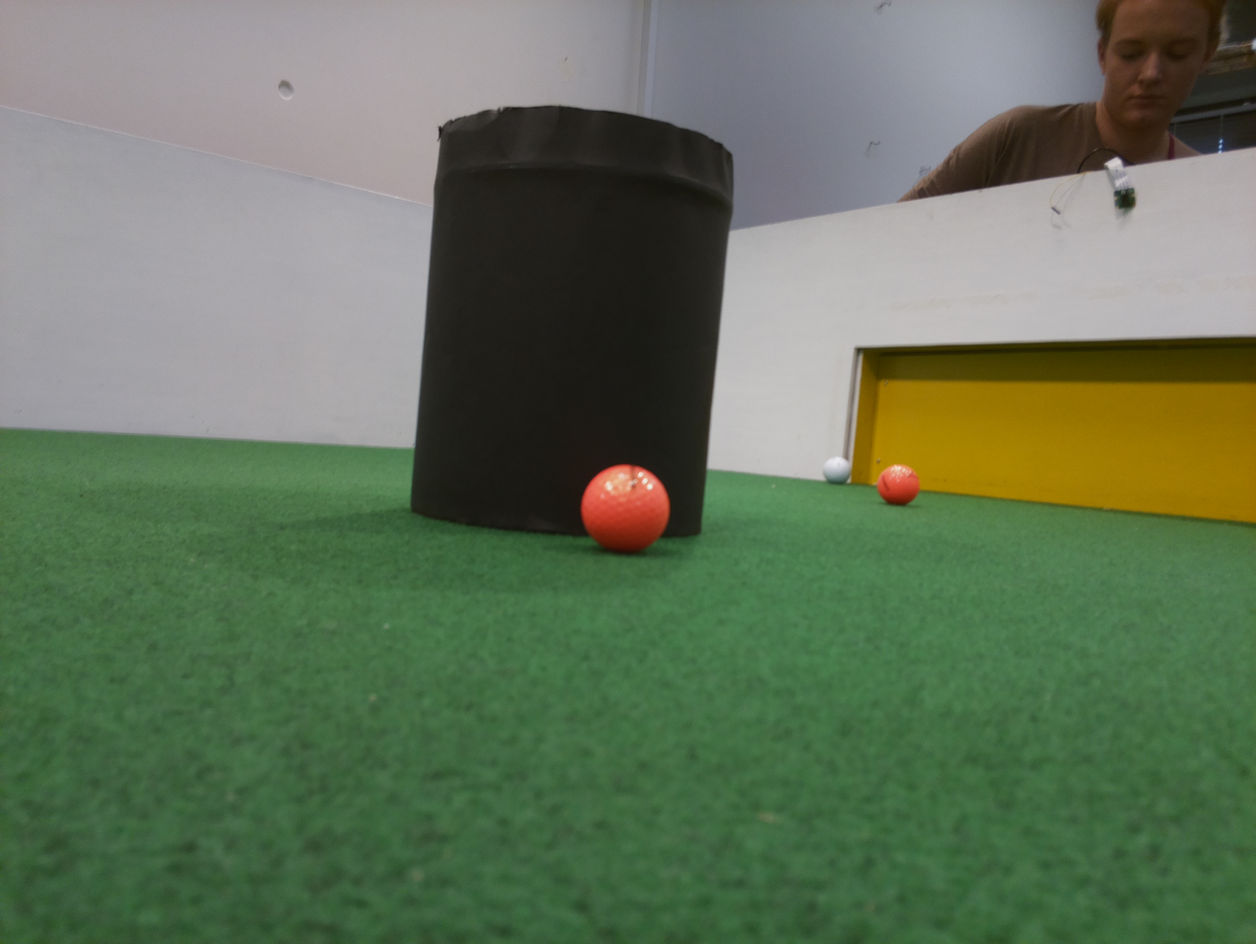
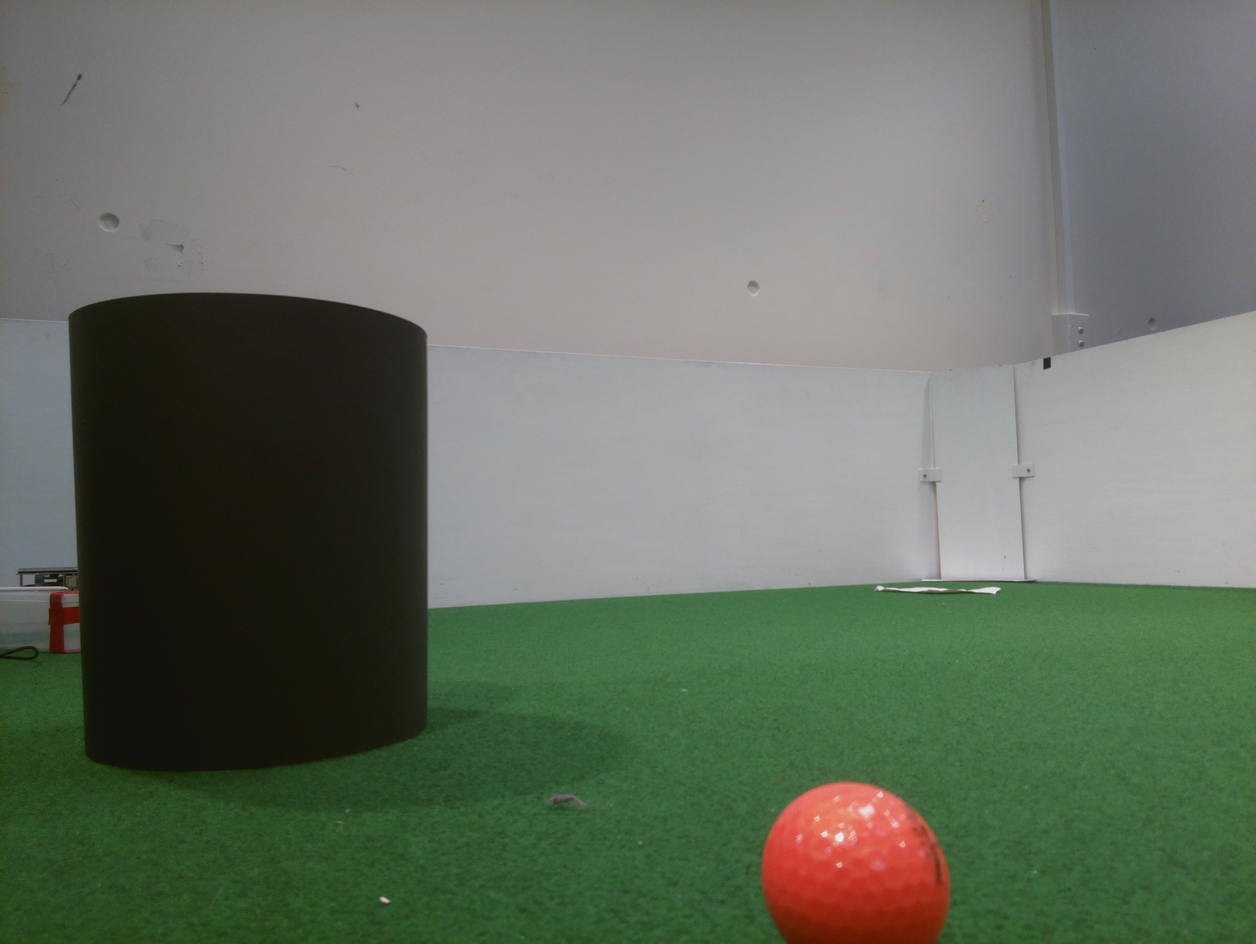
working thresholds for pi cam

diff --git a/vision.py b/vision.py
@@ -4,10 +4,10 @@ import math
 
 class ImageAnalyser:
     def __init__(self):
-        self.fov = np.array((math.radians(75), math.radians(50)))
-        # self.fov = np.array((math.radians(62.2), math.radians(48.8)))
+        # self.fov = np.array((math.radians(80), math.radians(50)))
+        self.fov = np.array((math.radians(62.2), math.radians(48.8)))
         self.tilt = math.radians(90 - 0)
-        self.camHeight = 0.215
+        self.camHeight = 0.1
         self.res = np.array((-1,-1))
         self.ballProps = {
             "dimensions": (0.0427, 0.0427)
@@ -20,20 +20,27 @@ class ImageAnalyser:
 
     def analyse(self, img):
         self.res = np.array(np.shape(img)[1::-1], dtype='float')
+        self.area = self.res[0] * self.res[1]
         denoised = self.denoiseRaw(img)
 
         hsv = cv2.cvtColor(denoised, cv2.COLOR_BGR2HSV)
+        areaGetter = lambda info: info["area"]
 
         ballMask = self.ballThreshold(hsv)
         ballContours = self.findContours(np.array(ballMask))
+        ballMask = cv2.cvtColor(ballMask, cv2.COLOR_GRAY2BGR)
         if ballContours is not None:
-            areaGetter = lambda info: info["area"]
             ballInfos = sorted([self.contourInfo(contour) for contour in ballContours], key=areaGetter, reverse=True)
             ballInfo = ballInfos[0]
-            # for ballInfo in ballInfos:
-            self.ballPos = self.realCoordinates(ballInfo, self.ballProps)
-            self.drawContourInfo(denoised, ballInfo, self.ballPos)
-                # break
+            if ballInfo["area"] >= self.area * 0.001:
+                # for ballInfo in ballInfos:
+                self.ballPos = self.realCoordinates(ballInfo, self.ballProps)
+                self.drawContourInfo(denoised, ballInfo, color=(255,0,255))
+                if self.ballPos is not None:
+                    text = "{:.2f}, {:.2f}, {}".format(self.ballPos[0], self.ballPos[1], self.ballPos[2])
+                    cv2.putText(ballMask, text, (10, int(self.res[1] - 10)), cv2.FONT_HERSHEY_SIMPLEX, 0.75, (0,0,255))
+            else:
+                self.ballPos = None
 
         cv2.imshow('ball', ballMask)
 
@@ -42,12 +49,21 @@ class ImageAnalyser:
 
         obstacleMask = self.obstacleThreshold(hsv)
         obstacleContours = self.findContours(np.array(obstacleMask))
+        obstacleMask = cv2.cvtColor(obstacleMask, cv2.COLOR_GRAY2BGR)
         if obstacleContours is not None:
-            for obstacleContour in obstacleContours:
-                cv2.drawContours(denoised, obstacleContours, -1, (255,0,0))
-                obstacleInfo = self.contourInfo(obstacleContour)
+            obstacleInfos = [self.contourInfo(contour) for contour in obstacleContours]
+            obstacleInfos = [info for info in obstacleInfos if info["area"] >= self.area * 0.01]
+            obstacleInfos = sorted(obstacleInfos, key=areaGetter, reverse=True)
+            first = True
+            for obstacleInfo in obstacleInfos:
                 self.obstaclePos = self.realCoordinates(obstacleInfo, self.obstacleProps)
-                # self.drawContourInfo(denoised, obstacleInfo, self.obstaclePos)
+                text = "{:.2f}, {:.2f}, {}".format(self.obstaclePos[0], self.obstaclePos[1], self.obstaclePos[2]) \
+                    if self.obstaclePos is not None else None
+                self.drawContourInfo(denoised, obstacleInfo, color=(0,0,255), text=text)
+                if first and self.obstaclePos is not None:
+                    first = False
+                    text = "{:.2f}, {:.2f}, {}".format(self.obstaclePos[0], self.obstaclePos[1], self.obstaclePos[2])
+                    cv2.putText(obstacleMask, text, (10, int(self.res[1] - 10)), cv2.FONT_HERSHEY_SIMPLEX, 0.75, (0,0,255))
         cv2.imshow('obstacle', obstacleMask)
         # cv2.imshow('wall', wallMask)
         # cv2.imshow('grass', grassMask)
@@ -60,14 +76,14 @@ class ImageAnalyser:
     def denoiseRaw(self, img):
         return cv2.medianBlur(img, 3)
 
-    def drawContourInfo(self, img, cinfo, coordinates = None):
-        cv2.rectangle(img, cinfo["box"][0], cinfo["box"][1], (255,0,255))
+    def drawContourInfo(self, img, cinfo, text = None, color = None, thickness = None):
+        color = (255,0,255) if color is None else color
+        thickness = 2 if thickness is None else color
+        cv2.rectangle(img, cinfo["box"][0], cinfo["box"][1], color, thickness)
         center = tuple(int(round(dim)) for dim in cinfo["centroid"])
-        cv2.circle(img, center, 2, (255,0,255))
+        cv2.circle(img, center, 2, color)
 
-        if coordinates is not None:
-            color = (255,0,255) if coordinates[2] else (0,0,255)
-            text = "{:.2f}, {:.2f}".format(coordinates[0], coordinates[1])
+        if text is not None:
             cv2.putText(img, text, cinfo["box"][0], cv2.FONT_HERSHEY_SIMPLEX, 0.4, color, 1)
 
     def contourInfo(self, contour):
@@ -151,8 +167,9 @@ class ImageAnalyser:
         return self.open(wallMask, 9)
 
     def obstacleThreshold(self, hsv):
-        obstacleLower = np.array([0, 200, 0])
-        obstacleUpper = np.array([255, 255, 50])
+        # obstacleLower = np.array([0, 200, 0])
+        obstacleLower = np.array([0, 150, 0])
+        obstacleUpper = np.array([100, 255, 50])
         obstacleMask = cv2.inRange(hsv, obstacleLower, obstacleUpper)
         return self.open(obstacleMask, 9)
 

diff --git a/webtest.py b/webtest.py
@@ -29,9 +29,9 @@ try:
     while showVideo and cap.isOpened():
         ret, img = cap.read()
         if ret:
-            fps_str = str(round(next(fps), 2))
-            cv2.putText(img, fps_str, (10, resolution[1] - 10), cv2.FONT_HERSHEY_DUPLEX, 0.5, (255,0,0))
-            cv2.imshow('videooutput', img)
+            # fps_str = str(round(next(fps), 2))
+            # cv2.putText(img, fps_str, (10, resolution[1] - 10), cv2.FONT_HERSHEY_DUPLEX, 0.5, (255,0,0))
+            # cv2.imshow('videooutput', img)
             analyser.analyse(img)
 except KeyboardInterrupt:
     print("quitting.")

diff --git a/cvtest.py b/cvtest.py
@@ -32,7 +32,7 @@ with PiStream(resolution = resolution) as stream:
 
         fps_str = str(round(next(fps), 2))
         cv2.putText(img, fps_str, (10, resolution[1] - 10), cv2.FONT_HERSHEY_DUPLEX, 0.5, (255,0,0))
-        cv2.imshow('videooutput', img)
+        # cv2.imshow('videooutput', img)
 
         if cv2.waitKey(1) != -1:
             showVideo = False
